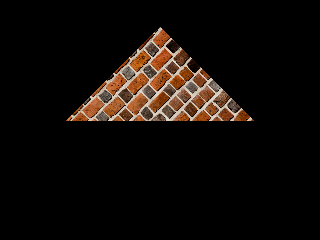
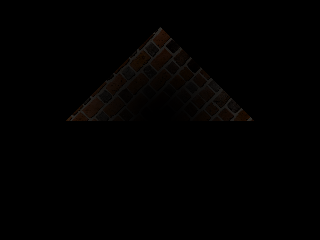
Phong bug fixed: added normal normalization

Changed region(s): [[0.2188, 0.1167, 0.7812, 0.525]]

diff --git a/pyrt/material/texturematerial.py b/pyrt/material/texturematerial.py
@@ -31,16 +31,16 @@ class TextureMaterial(Material):
 
         texcolor = self.texture.color(hitrecord.texcoord)
 
-        if 0: #len(lights) > 0:
+        if len(lights) > 0:
             for light in lights:
-                N = hitrecord.normal_g
+                N = normalize3(hitrecord.normal_g)
                 L = normalize3(hitrecord.point - light.position)
                 E = normalize3(camera.position - hitrecord.point)
                 R = normalize3(-reflect3(L, N))
                 diffuse = max(1. - dot3(N, L), 0.0)
                 specular = pow(max(dot3(R, E), 0.0), 0.3 * self.shininess)
 
-                color = texcolor * 0.5 * (diffuse + specular) * hitrecord.color
+                color = texcolor * (diffuse + specular) * hitrecord.color
                 colorsum += color
             colorsum /= len(lights)
             colorsum = clamp3(colorsum, Vec3(0.,0.,0.), Vec3(1.,1.,1.))

diff --git a/pyrt/material/phongmaterial.py b/pyrt/material/phongmaterial.py
@@ -25,7 +25,7 @@ class PhongMaterial(Material):
 
         if len(lights)>0:
             for light in lights:
-                N = hitrecord.normal_g
+                N = normalize3(hitrecord.normal_g)
                 L = normalize3(hitrecord.point - light.position)
                 E = normalize3(camera.position - hitrecord.point)
                 R = normalize3(-reflect3(L, N))

diff --git a/examples/16_textured_scene.py b/examples/16_textured_scene.py
@@ -34,7 +34,7 @@ vp =  camera.projection * camera.view
 scene = Scene()
 
 # Add a light to the scene
-scene.addLight(PointLight(Vec3(-1, -8, 1)))
+scene.addLight(PointLight(Vec3(0, -5, 0)))
 
 # Create a triangle
 t = Triangle(Vertex(position=(-5, 1, 0), texcoord=(0, 0)),
